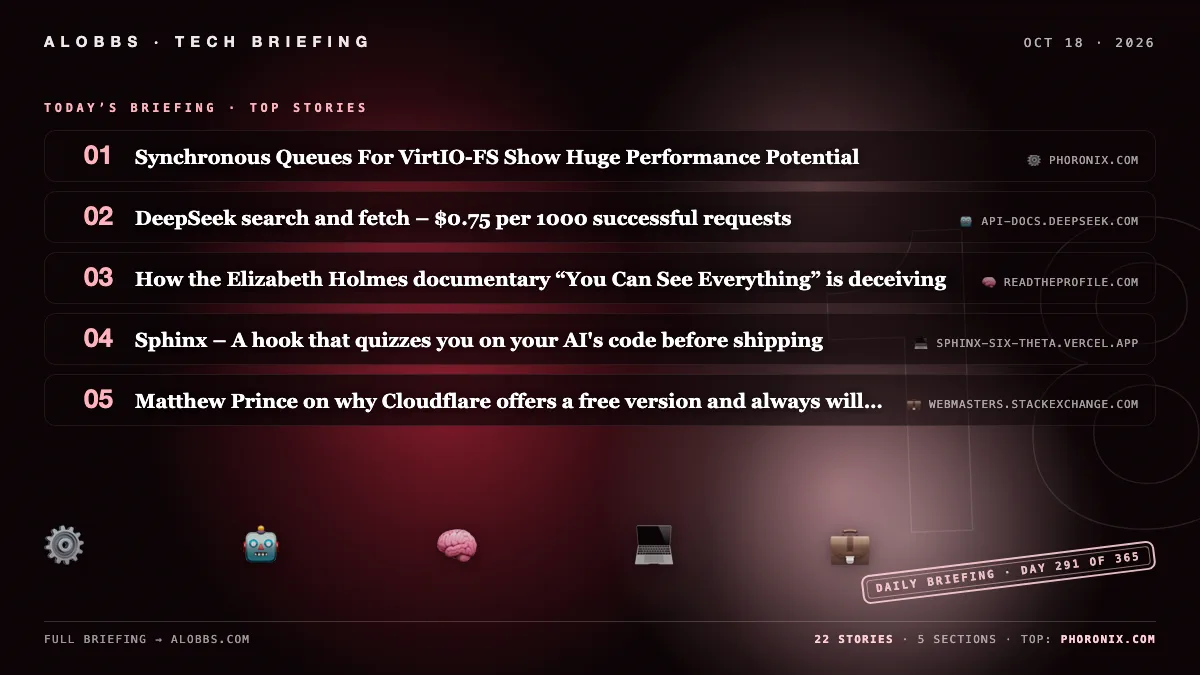
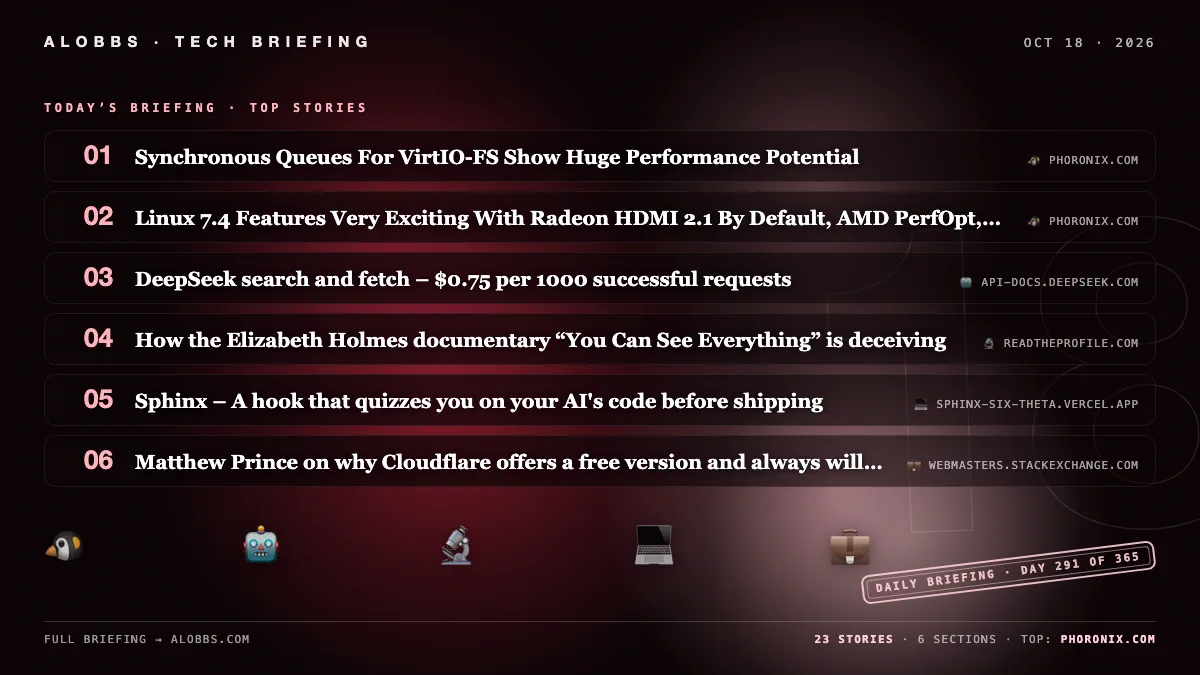
2026-10-18 briefing — 1 new (23 total)

diff --git a/content/post/2026-10-18.md b/content/post/2026-10-18.md
@@ -1,6 +1,6 @@
 ---
 title: "2026-10-18 Briefing"
-date: 2026-10-18 10:47:38.861277
+date: 2026-10-18 11:10:45.023453
 draft: false
 categories: [ "Briefing" ]
 params:
@@ -8,11 +8,11 @@ params:
 cover: "/images/briefings/2026-10-18.webp"
 ---
 
-A Princeton chemical engineering PhD has applied to over 2,300 jobs and remains unemployed, highlighting a brutal white-collar market. The game industry faces a severe downturn, with projections of 58,000 jobs lost from 2022–2026 and hundreds of studio closures. Meanwhile, a survival trainer spent two years undercover in right-wing militias, rising to a top state command and gathering evidence for ProPublica before fleeing.
+A Princeton chemical engineering PhD has applied to 2,300+ jobs and remains unemployed, while gaming faces 58,000 projected job losses by 2026. A survival trainer spent two years undercover in right-wing militias, rising to a state command and giving ProPublica evidence on leaders, police ties and surveillance. DeepSeek’s Search and Fetch APIs cost $0.75 per 1,000 successful requests.
 
 <!--more-->
 
-## 🤖 AI & Machine Learning
+## 🤖 AI & Automation
 
 ### DeepSeek search and fetch – $0.75 per 1000 successful requests
 
@@ -52,13 +52,13 @@ OpenPrinter is an upcoming open-source, modular, repairable inkjet printer built
 
 - [OpenPrinter](https://www.crowdsupply.com/open-tools/openprinter) — *crowdsupply.com*
 
-### Oh no, what happened to my OOHPod? Windows command prompt puts in a surprise appearance
+## 🐧 Linux & Performance
 
-A Windows command prompt unexpectedly appeared on an OOHPod, apparently after someone left a command shell logged in. The incident raises the security question of what to do when a public-facing system is found with an exposed shell.
+### Linux 7.4 Features Very Exciting With Radeon HDMI 2.1 By Default, AMD PerfOpt, Apple M4
 
-- [Oh no, what happened to my OOHPod? Windows command prompt puts in a surprise appearance](https://www.theregister.com/offbeat/2026/10/18/oh-no-what-happened-to-my-oohpod-windows-command-prompt-puts-in-a-surprise-appearance/5303109) — *theregister.com*
+With Linux 7.3 expected to be released as stable today, the Linux 7.4 merge window is set to bring features including Radeon HDMI 2.1 enabled by default, AMD PerfOpt IOMMU improvements for iGPU AI/LLM performance, and more Zen 6 support. Linux 7.4 is also expected to add initial Apple M4 device trees, Qualcomm Snapdragon X2 laptop support, Google Tensor G5/Pixel 10 support, and Intel Battlemage graphics improvements. Other planned changes include EXT4 IOmap buffered I/O, FUSE large folios, and laptop and handheld gaming device improvements.
 
-## ⚙ Systems & Performance
+- [Linux 7.4 Features Very Exciting With Radeon HDMI 2.1 By Default, AMD PerfOpt, Apple M4](https://www.phoronix.com/news/Linux-7.4-Features-Preview) — *phoronix.com*
 
 ### Omarchy Gets The Web Browser Launching Faster By Avoiding XDG Overhead
 
@@ -78,7 +78,13 @@ Sergio López is developing experimental synchronous queues for VirtIO-FS so the
 
 - [Synchronous Queues For VirtIO-FS Show Huge Performance Potential](https://www.phoronix.com/news/Synchronous-VirtIO-FS) — *phoronix.com*
 
-## 💼 Tech Business & Funding
+## 💼 Tech Industry
+
+### A Princeton PhD Applied to 2,300 Jobs. He Still Can't Get One
+
+Jack Weis, a 2024 Princeton chemical engineering Ph.D. graduate, has applied to more than 2,300 jobs and remains unemployed. After pursuing corporate science roles and postdoctoral fellowships, he expanded his search to software engineering and food-preparation jobs but was ghosted. A temporary job training AI in his expertise also ended.
+
+- [A Princeton PhD Applied to 2,300 Jobs. He Still Can't Get One](https://www.wsj.com/lifestyle/careers/labor-market-freeze-phd-graduate-f8e17d7c) — *wsj.com*
 
 ### The game industry is broken – can we fix it?
 
@@ -122,19 +128,21 @@ In an interview, Microsoft CEO Satya Nadella discussed the new Nvidia-powered Su
 
 - [Interview: Nadella on RTX Spark Surface Laptop Ultra and safer Windows for AI agents](https://thenewthings.com/p/microsoft-ceo-on-rogue-ai-agents-super-laptops-and-clippy) — *thenewthings.com*
 
-## 🧠 Science & Society
-
-### A Princeton PhD Applied to 2,300 Jobs. He Still Can't Get One
-
-Jack Weis, a 2024 Princeton chemical engineering Ph.D. graduate, has applied to more than 2,300 jobs and remains unemployed. After pursuing corporate science roles and postdoctoral fellowships, he expanded his search to software engineering and food-preparation jobs but was ghosted. A temporary job training AI in his expertise also ended.
-
-- [A Princeton PhD Applied to 2,300 Jobs. He Still Can't Get One](https://www.wsj.com/lifestyle/careers/labor-market-freeze-phd-graduate-f8e17d7c) — *wsj.com*
+## 🛡 Security & Society
 
 ### A Mole Infiltrated the Highest Ranks of American Militias (2025)
 
 A wilderness survival trainer spent more than two years undercover in right-wing militias, rising to a top state command while secretly recording meetings and gathering documents without telling police, the FBI, or his family. He sent ProPublica a large trove of evidence on militia leaders, law-enforcement ties, and surveillance operations, then fled after fearing his cover was blown; the reporting examines a new generation of militia leaders and their possible resurgence under Donald Trump.
 
 - [A Mole Infiltrated the Highest Ranks of American Militias (2025)](https://www.propublica.org/article/ap3-oath-keepers-militia-mole) — *propublica.org*
+
+### Oh no, what happened to my OOHPod? Windows command prompt puts in a surprise appearance
+
+A Windows command prompt unexpectedly appeared on an OOHPod, apparently after someone left a command shell logged in. The incident raises the security question of what to do when a public-facing system is found with an exposed shell.
+
+- [Oh no, what happened to my OOHPod? Windows command prompt puts in a surprise appearance](https://www.theregister.com/offbeat/2026/10/18/oh-no-what-happened-to-my-oohpod-windows-command-prompt-puts-in-a-surprise-appearance/5303109) — *theregister.com*
+
+## 🔬 Science & Culture
 
 ### Notes on the Complex Roots of Unity
 
